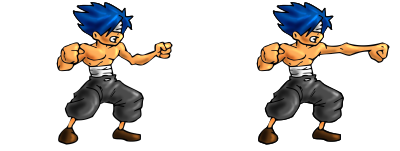
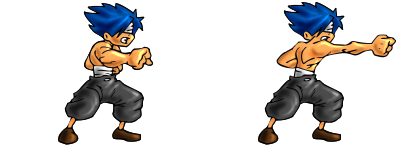
Incorporando cambios de animación al golpear.

diff --git a/sbfury/shaolin/estados.py b/sbfury/shaolin/estados.py
@@ -105,19 +105,30 @@ class Caminar(Comportamiento):
         self.shaolin.hacer(SaltarCaminando(direccion))
 
 class Golpear(Comportamiento):
+    # indica si al tirar el golpe a logrado dar con el enemigo.
+    # (esto se usa para los combos de golpes).
+    ha_golpeado = False
+    numero_de_ataque = 0
 
     def iniciar(self, shaolin):
         Comportamiento.iniciar(self, shaolin)
-        self.shaolin.cambiar_animacion('ataca1')
+
+        if Golpear.ha_golpeado == False:
+            Golpear.numero_de_ataque = 0
+        else:
+            Golpear.numero_de_ataque += 1
+            Golpear.numero_de_ataque %= 5
+
+
+        self.shaolin.cambiar_animacion('ataca' + str(self.numero_de_ataque))
         self.shaolin.reproducir_sonido('golpe')
         self.golpear(dy=90)
 
     def actualizar(self):
-        if self.shaolin.avanzar_animacion(0.5):
+        if self.shaolin.avanzar_animacion(0.4):
             self.shaolin.hacer(Parado())
             self.eliminar_golpe()
-
-    
+            Golpear.ha_golpeado = True
 
 class Saltar(Comportamiento):
 

diff --git a/sbfury/shaolin/shaolin.py b/sbfury/shaolin/shaolin.py
@@ -39,10 +39,11 @@ class Shaolin(pilas.actores.Actor):
         self.animaciones = {
             "parado": cargar("shaolin/parado.png", 4),
             "camina": cargar("shaolin/camina.png", 4),
+            "ataca0": cargar("shaolin/ataca0.png", 2),
             "ataca1": cargar("shaolin/ataca1.png", 2),
-            "ataca2": cargar("shaolin/ataca2.png", 2),
-            "ataca3": cargar("shaolin/ataca3.png", 2),
-            "ataca4": cargar("shaolin/ataca4.png", 2),
+            "ataca2": cargar("shaolin/ataca0.png", 2),
+            "ataca3": cargar("shaolin/ataca1.png", 2),
+            "ataca4": cargar("shaolin/ataca4.png", 4),
             "salta": cargar("shaolin/salta.png", 3),
             "ataque_aereo": cargar("shaolin/ataque_aereo.png", 2),
         }

diff --git a/sbfury/efecto_golpe.py b/sbfury/efecto_golpe.py
@@ -14,7 +14,6 @@ class EfectoGolpe(pilas.actores.Animacion):
             pilas.sonidos.cargar("sonidos/golpe_3.wav"),
             ]
 
-
         grilla = random.choice(grillas)
         sonido = random.choice(sonidos)
         sonido.reproducir()

diff --git a/sbfury/configuracion.py b/sbfury/configuracion.py
@@ -1,1 +1,1 @@
-DEPURACION = True
+DEPURACION = False
